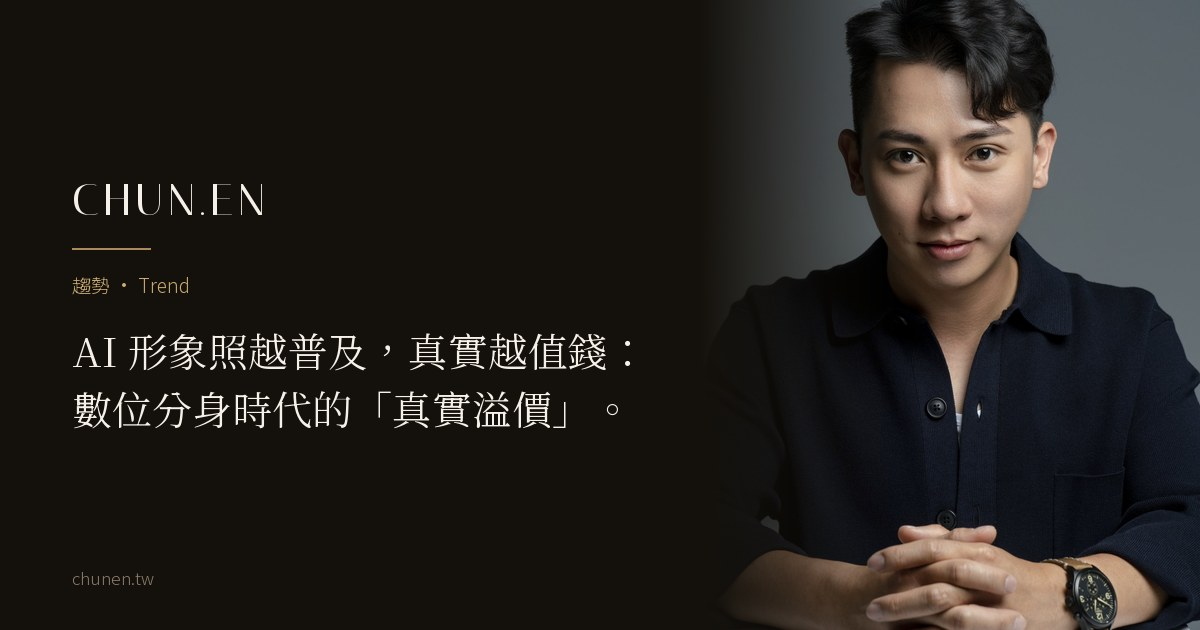
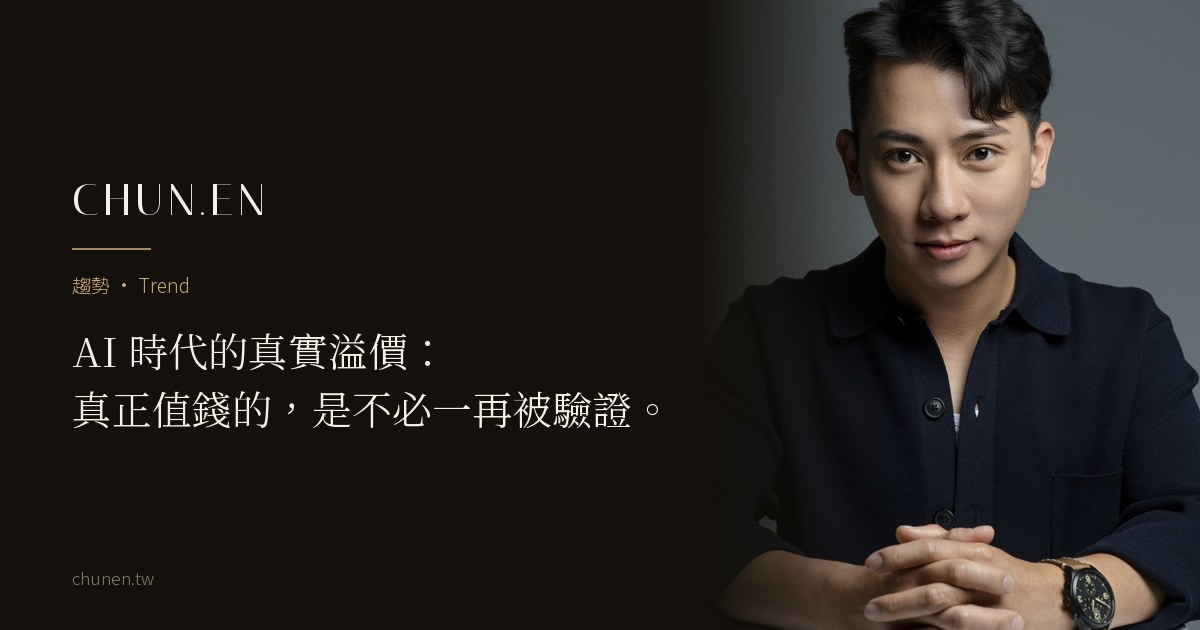
真實溢價改寫：加入「先懷疑、再驗證」，落點改為跨接觸點一致
依 08-02 的參考 MD 重寫。核心校準：不主張大家真的一眼看得出 AI，而是
觀看習慣已經從先接受轉為先懷疑、再相信；因此單張照片的證明力下降，
真正升值的是接觸點之間不需要被反覆驗證的一致。

- H1 改為「AI 時代的真實溢價：真正值錢的，是不必一再被驗證」，
  title／og／twitter／schema headline／麵包屑同步
- 新增 H2「現在的第一反應，常常不是欣賞，而是懷疑」＝這次要加的論點，
  並明講「重點不在觀者判斷得準不準」，避開「AI 一定會露餡」那條會輸的路
- 原「訊號經濟學」段改為「一張照片，已經不能單獨證明一個人」，
  補上「精緻從來就不能證明能力」這層
- 原「真實溢價在哪裡兌現」的三個時刻，改為「溢價不發生在一張照片裡」，
  用驗證成本說明價值往接觸點之間移動
- 「真實不等於隨便」併入「真實不等於只有一個版本」
- 新增「AI 不是問題，斷裂才是」，AI 的位置寫清楚，不再只當對照組
- 收尾改為「下一次有人真的見到你之前」，維持問句收尾零 CTA
- 主圖與內文圖 alt／圖說重寫：原本寫「生成無法替代」「皮膚質地就是溢價
  本身」，與改寫後的論點相衝突
- FAQ 四題全部重寫，前台與 FAQPage schema 逐字一致
- og 分享卡重產（H1 改了，舊卡標題會過期）

鎖定詞：移出「ai 形象照」，改列轉換型不設搜尋入口。原本與已公開的
ai-portrait-honest-take 同鎖一詞，兩頁互搶同一個查詢；改寫後這篇沒有
意圖相符的搜尋詞（「真實溢價」不是台灣人會搜的字），靠內鏈接流量。
理由記在 seo_targets.json 的 _轉換型理由。

分類維持趨勢，8/24 趨勢週三篇不動。

diff --git a/journal/authenticity-premium.html b/journal/authenticity-premium.html
@@ -4,15 +4,15 @@
   <meta charset="UTF-8" />
   <meta name="viewport" content="width=device-width, initial-scale=1.0, viewport-fit=cover" />
   <meta name="robots" content="noindex" /><!-- 草稿：Kay 審核後移除此行＋掛列表頁＋入 sitemap -->
-  <title>AI 形象照越普及，真實越值錢：數位分身時代的「真實溢價」｜CHUN.EN 觀點</title>
-  <meta name="description" content="當任何人都能生成一張完美的照片，「完美」就不再稀缺，稀缺的變成了「經得起見面檢驗的真實」。數位分身時代的訊號經濟學：AI 越普及，真實越值錢，而真實是可以經營的。" />
+  <title>AI 時代的真實溢價：真正值錢的，是不必一再被驗證｜CHUN.EN 觀點</title>
+  <meta name="description" content="當生成讓精緻變便宜，一張照片就不再能單獨證明一個人。觀看習慣也變了：先懷疑，再相信。真正升值的不是「看起來像真的」，是照片、內容、經歷與本人之間不需要被反覆驗證的一致。" />
   <meta name="theme-color" content="#14100B" />
   <link rel="icon" href="/favicon.ico" sizes="48x48" />
   <link rel="icon" href="/favicon-32.png" type="image/png" sizes="32x32" />
   <link rel="apple-touch-icon" href="/apple-touch-icon.png" />
   <link rel="canonical" href="https://chunen.tw/journal/authenticity-premium.html" />
-  <meta property="og:title" content="AI 形象照越普及，真實越值錢：數位分身時代的「真實溢價」" />
-  <meta property="og:description" content="當完美可以量產，經得起見面檢驗的真實，就成了新的奢侈品。" />
+  <meta property="og:title" content="AI 時代的真實溢價：真正值錢的，是不必一再被驗證" />
+  <meta property="og:description" content="精緻變便宜之後，一張照片不再能單獨證明一個人。觀看習慣也變了：先懷疑，再相信。" />
   <meta property="og:image" content="https://chunen.tw/assets/og/authenticity-premium-og.jpg" />
   <meta property="og:image:width" content="1200" />
   <meta property="og:image:height" content="630" />
@@ -20,8 +20,8 @@
   <meta property="og:type" content="article" />
   <meta property="og:locale" content="zh_TW" />
   <meta name="twitter:card" content="summary_large_image" />
-  <meta name="twitter:title" content="AI 形象照越普及，真實越值錢" />
-  <meta name="twitter:description" content="當完美可以量產，經得起見面檢驗的真實，就成了新的奢侈品。" />
+  <meta name="twitter:title" content="AI 時代的真實溢價：真正值錢的，是不必一再被驗證" />
+  <meta name="twitter:description" content="精緻變便宜之後，一張照片不再能單獨證明一個人。" />
   <meta name="twitter:image" content="https://chunen.tw/assets/og/authenticity-premium-og.jpg" />
   <link rel="preconnect" href="https://fonts.googleapis.com" />
   <link rel="preconnect" href="https://fonts.gstatic.com" crossorigin />
@@ -74,65 +74,78 @@
     <header style="padding: clamp(9rem, 16vh, 11rem) 0 clamp(2rem, 4vh, 3rem);">
       <div class="wrap article-wrap">
         <p class="hero-eyebrow rv">趨勢 · Trend</p>
-        <h1 class="rv rv-d1" style="font-weight: 300; font-size: clamp(1.9rem, 4.4vw, 3.2rem); line-height: 1.4; margin-top: 1rem;">AI 形象照越普及，真實越值錢：<br>數位分身時代的<em style="font-style:normal;color:var(--gold-light);">「真實溢價」</em>。</h1>
+        <h1 class="rv rv-d1" style="font-weight: 300; font-size: clamp(1.9rem, 4.4vw, 3.2rem); line-height: 1.4; margin-top: 1rem;">AI 時代的真實溢價：<br>真正值錢的，<em style="font-style:normal;color:var(--gold-light);">是不必一再被驗證</em>。</h1>
         <p class="article-meta rv rv-d2">CHUN.EN 觀點 · 2026 · 閱讀約 5 分鐘</p>
       </div>
     </header>
 
     <div class="wrap article-wrap">
       <div class="jcard-media rv" style="aspect-ratio: 16/9; overflow: hidden; margin-bottom: clamp(2.5rem, 6vh, 4rem);">
-        <img src="../assets/gallery/journal/ai-real-signal-1400.jpg" alt="真實拍攝的光影與質地，生成無法替代的信任訊號" style="width:100%;height:100%;object-fit:cover;object-position:center 20%;" />
+        <img src="../assets/gallery/journal/ai-real-signal-1400.jpg" alt="商業人像中的光線、姿態與人物神情" style="width:100%;height:100%;object-fit:cover;object-position:center 20%;" />
       </div>
 
       <div class="keypoints rv">
         <p class="kp-t">In This Article · 本文重點</p>
         <ul>
-          <li>當「完美」可以量產，完美就不再構成差異</li>
-          <li>新的稀缺品是「經得起見面檢驗的真實」，真實溢價正在形成</li>
-          <li>真實不等於隨便：溢價屬於「被好好呈現的真實」，這正是專業的位置</li>
+          <li>生成讓精緻變便宜，一張照片已經不能單獨證明一個人</li>
+          <li>觀看習慣變了：先懷疑，再相信，重點不在觀者是否真的分得出來</li>
+          <li>真實溢價不在單張照片裡，在接觸點之間那份不需要解釋的一致</li>
         </ul>
       </div>
 
       <div class="article-body rv">
-        <p class="article-lead">價值不只來自稀缺，還要有人需要它。</p>
-        <p>過去，一張光線完美、皮膚無瑕、構圖精準的照片同時具備這兩個條件：它需要專業團隊才做得出來，而看到的人也會因此對你多幾分相信。現在，任何人花幾分鐘就能生成一張。</p>
-        <p>於是一件反直覺的事發生了：<strong>完美貶值了。</strong>而每一次貶值的另一面，都有另一樣東西在升值。這一次升值的，是真實。</p>
+        <p class="article-lead">精緻，現在是一件便宜的事。</p>
+        <p>正式的西裝、棚燈的光、平整的膚質、剛好的場景，過去要一組人才做得出來，現在幾分鐘就有。</p>
+        <p>這不代表專業影像失去價值。真正改變的是：光靠「看起來很專業」，已經不足以說明你是誰、能承擔什麼、值不值得託付。</p>
+        <p>於是要問的問題換了一個：這張照片，和真正走進會議室的那個人，對得起來嗎？</p>
 
-        <h2>訊號經濟學：完美<em>為什麼會貶值</em></h2>
-        <p>照片在商業裡的功能從來不是美學，是訊號，它替觀者回答「這個人是誰、可不可信」。訊號要有效，前提是它「難以偽造」：十年前，一張高質感的形象照間接證明了你願意投資自己、有一定的專業水準，因為它做起來不容易。</p>
-        <p>當生成工具讓完美變得人人可得，這個訊號就失效了，觀者開始知道，螢幕上的無瑕疵不再保證什麼。於是大腦換了一個問題：這是真的嗎？<strong>當所有照片都可能是生成的，「這是真的」本身變成了需要被證明的事，而能被證明的真實，就有了溢價。</strong></p>
-        <blockquote>當完美可以量產，經得起見面檢驗的真實，就成了新的奢侈品。</blockquote>
+        <h2>一張照片，<em>已經不能單獨證明一個人</em></h2>
+        <p>照片在商業裡的功能從來不是美學，是訊號。它替看的人回答一個很快的問題：這個人是誰，可不可信。</p>
+        <p>而訊號要有效，前提是它不容易取得。十年前一張高質感的形象照，間接說明了你願意在自己身上投資，因為那件事做起來不簡單。現在門檻沒了。</p>
+        <p>但要說清楚的是，精緻並沒有失效，它只是不再構成差異。而且它從來就不能證明一個人的專業能力、誠信或交付結果，只是過去沒有人需要計較這件事。</p>
+        <blockquote>精緻曾經是一種成本訊號。它從來都不是能力證明。</blockquote>
 
-        <h2>真實溢價，在<em>哪裡兌現</em></h2>
-        <p>這個溢價不是抽象的哲學，它在幾個非常具體的時刻兌現：</p>
-        <ul>
-          <li><strong>見面的那一刻。</strong>客戶約你開會、投資人與你面談，照片與本人一致，先前累積的信任全額入帳；有落差，則連本帶利扣回。<a href="ai-portrait-honest-take.html">我們對 AI 形象照的誠實建議</a>裡說過：省下的拍攝費，會用第一印象的折損付利息。</li>
-          <li><strong>被反覆檢視的過程。</strong>高信任行業（醫療、法律、金融）的客戶會反覆看你的照片、影片、社群。經得起放大的不是皮膚質地，人眼未必分得出高品質的生成影像；經得起放大的是身分本身：從照片、影片到真正見面，是不是同一個人。</li>
-          <li><strong>長期的一致性。</strong>你可以有很多面向：董事會上沉穩、課堂上有互動感、社群裡更接近生活。需要一致的不是每張照片都一樣，而是每一個版本都能由同一個人承接；生成的形象每次都得重新對齊，時間一拉長，敘事就散了。</li>
-        </ul>
+        <h2>現在的第一反應，<em>常常不是欣賞，而是懷疑</em></h2>
+        <p>以前看到一張完成度很高的照片，多數人的第一句是「拍得真好」。</p>
+        <p>現在，很多人的第一句變成了「這AI吧」。接著眼睛就開始找線索：手指的數量、耳環對不對稱、背景裡有沒有糊掉的字、皮膚是不是平得不像人。</p>
+        <p>他們不一定真的分得出來。高品質的生成影像，肉眼未必是可靠的裁判。</p>
+        <p><strong>但重點從來不在觀者判斷得準不準，而在影像已經不再被直接接受。</strong>它先被懷疑，再被相信。</p>
+        <p>這個轉變會產生一種很少被算進去的成本：一張真的照片，現在也可能要花力氣證明自己是真的。</p>
+        <blockquote>AI 改變的不只是影像怎麼被做出來，而是人們還願不願意直接相信它。</blockquote>
 
-        <h2>關鍵區分：真實<em>不等於隨便</em></h2>
-        <p>這裡最容易誤讀的一步：真實溢價，不是「拿手機隨拍就好」的許可證。隨拍的照片一樣真實，但它同時傳遞了另一個訊號，不在乎。溢價屬於的是<strong>被好好呈現的真實</strong>：真實的你，在正確的定位、合適的造型、專業的光線下，被準確地記錄下來。</p>
-        <p>這正是專業拍攝在 AI 時代的新位置：不是和生成工具比「無瑕」，而是做生成做不到的事，把「真的你」呈現到最好，而且經得起見面對答案。</p>
-        <p>定位（<a href="../a-voir.html">À Voir</a>）確保照片裡是對的角色，妝髮（<a href="../b-room.html">B.room</a>）做的是「更好的真實」而非面具，影像（<a href="../c-photos.html">C.photos</a>）用光影與引導留下真實的質地。<a href="first-impression-research.html">第一印象研究</a>告訴我們，第一眼判讀的是可信度，而可信度的終極來源，是照片背後站得住的那個真人。</p>
+        <h2>真實溢價，<em>不發生在一張照片裡</em></h2>
+        <p>如果單張照片的證明力下降，價值就會往上移一層，移到照片與照片之間。</p>
+        <p>一個人被認識的路徑其實很長：搜尋結果、官網、LinkedIn、社群、一段影片、一次視訊，最後才是真正見面。每一次接觸，都是一次對答案的機會。</p>
+        <p>真正值錢的，是這一串接觸點不需要被解釋。對方不會在中間停下來問：哪一個才是真正的你。</p>
+        <p>換個方式想，這是一筆驗證成本。每多出一次「這是同一個人嗎」的停頓，成本就多一分，而且付這筆成本的是對方。願意替你多付幾次的人，本來就不多。</p>
+
+        <h2>真實，<em>不等於只有一個版本</em></h2>
+        <p>你可以在董事會上沉穩，在課堂上有互動感，在社群裡更接近生活。這些都是你。</p>
+        <p>需要一致的不是每張照片都長一樣，而是每一個版本都由同一個人承接得住，彼此之間也不互相打架。</p>
+        <p>真實也不等於隨手拍。隨拍的照片一樣真實，但它同時說了另一件事：這個位置我沒有很在意。溢價屬於的是被好好呈現的真實。</p>
+
+        <h2>AI 不是問題，<em>斷裂才是</em></h2>
+        <p>AI 有它合理的位置：概念草稿、服裝與背景的測試、創意視覺、不承接商業信任的場景。這些都不需要迴避。</p>
+        <p>真正會出事的是斷裂：把生成的畫面當成現場的紀錄，或者照片替你承諾了一個本人扛不起來的角色。前者是誤導，後者是遲早要還的。</p>
+        <p>這也是我們把三件事放在同一條線上的原因。定位（<a href="../a-voir.html">À Voir</a>）確保照片裡是對的角色；妝髮（<a href="../b-room.html">B.room</a>）做的是更好的真實，不是一張面具；影像（<a href="../c-photos.html">C.photos</a>）留下的是見面時仍然認得出來的那個人。三者合起來要解的，不是「拍得像不像真的」，是每一個接觸點都不必重新解釋一次。</p>
+        <p>如果你還在判斷什麼時候可以用 AI、什麼時候該拍真的，<a href="ai-portrait-honest-take.html">AI 形象照能用嗎</a>那篇談的是實際的使用情境，這一篇談的是它改變了什麼。</p>
 
         <figure class="article-fig crop45">
-          <img src="../assets/gallery/journal/ai-real-signal-1400.jpg" alt="被好好呈現的真實，皮膚質地、光影邏輯與姿態的一致" loading="lazy" />
-          <figcaption>真實的皮膚質地、光影邏輯與姿態，AI 時代裡，這些「與本人一致」的細節就是溢價本身。（CHUN.EN 實際拍攝作品）</figcaption>
+          <img src="../assets/gallery/journal/ai-real-signal-1400.jpg" alt="商業人像中的光線、姿態與人物神情" loading="lazy" />
+          <figcaption>同一個人在不同場合會有不同版本，能被辨識為同一個人，才是這串影像真正的價值。（CHUN.EN 實際拍攝作品）</figcaption>
         </figure>
 
-        <p>所以，AI 不是專業影像的敵人，它是定價的重新洗牌：<strong>它讓「有照片」變得免費，同時讓「是真的、而且被呈現得好」變得更值錢。</strong>站在溢價的那一邊，是可以選擇的。</p>
-
-        <h2>洗牌之後，留一個問題<em>給你</em></h2>
-        <p>下一次有人見到你本人，對照他先看過的那張照片。</p>
-        <p>你會是信任全額入帳的那一方，還是連本帶利被扣回的那一方？</p>
+        <h2>下一次有人真的見到你<em>之前</em></h2>
+        <p>他會先看到搜尋結果，看到照片，可能還看過一段影片，然後才是你本人。</p>
+        <p>那幾個接觸點之間，還是同一個人、同一個角色、同一套承諾嗎？</p>
+        <p>AI 時代真正值錢的，未必是一張毫無瑕疵的畫面。而是你不必在每一次接觸裡，重新證明一次自己。</p>
 
         <h2>常見<em>問題</em></h2>
         <div class="faq">
-          <details><summary>AI 形象照這麼普及，真人拍攝還有價值嗎？<span class="mark">+</span></summary><div class="a">有，而且價值正在被重新理解。當完美可以量產，完美就不再構成差異，真正稀缺的是經得起見面檢驗的真實。但真實不等於隨便，溢價屬於被好好呈現的真實，這正是專業的位置。</div></details>
-          <details><summary>觀者真的分得出來生成與真實嗎？<span class="mark">+</span></summary><div class="a">單看一張未必，但商業信任不是單看一張，它是照片、影片、社群、視訊與見面的總和。落差會在其中任何一個接觸點暴露，而見面是最終的對答案。</div></details>
-          <details><summary>我用真實照片，但修圖修很多，算真實嗎？<span class="mark">+</span></summary><div class="a">判準與 AI 相同：見面時對方認得出是同一個人嗎？修飾光線與暫時性瑕疵是呈現，修改骨相與年齡是偽造，前者累積信任，後者預支信任。</div></details>
-          <details><summary>那 AI 在形象經營裡完全沒有位置嗎？<span class="mark">+</span></summary><div class="a">有，內部草稿、風格測試、虛擬社群等不承接商業信任的場景都適合。原則只有一條：對外承諾信任的位置，留給經得起見面檢驗的真實。</div></details>
+          <details><summary>AI 形象照越普及，真人拍攝真的會變貴嗎？<span class="mark">+</span></summary><div class="a">不一定要理解成價格上漲。更準確的說法是：當精緻可以被生成，單靠完成度形成差異的能力就下降了，而能維持身分一致、角色誠實的影像，重要性會提高。所以是價值被重新理解，不是自動產生溢價。</div></details>
+          <details><summary>觀者真的分得出生成與真人照片嗎？<span class="mark">+</span></summary><div class="a">不一定。高品質的生成臉孔可能很難單靠肉眼辨識，把希望放在「對方會抓到破綻」是一條會輸的路。比較可靠的是跨平台與見面時的身分一致：從搜尋結果、社群、影片到真正坐下來，是不是同一個人。</div></details>
+          <details><summary>我用真人照片，但修圖修很多，還算真實嗎？<span class="mark">+</span></summary><div class="a">沒有哪一個修圖比例可以決定真假。實際的判準有三個：修改之後是否仍保留本人可辨識的穩定特徵、是否符合這張照片的用途、觀者會不會因此被誤導。整理光線與暫時性瑕疵，和改變骨相、年齡是兩件不同的事。</div></details>
+          <details><summary>AI 在商業形象裡還有位置嗎？<span class="mark">+</span></summary><div class="a">有。概念草稿、服裝與背景的測試、創意視覺、部分後製都可以用。關鍵不在商業或非商業的二分，而在使用方式是否說得清楚、是否符合情境，以及有沒有把生成的畫面當成現場紀錄或實際成果。</div></details>
         </div>
 
       </div>
@@ -181,8 +194,8 @@
   {
     "@context": "https://schema.org",
     "@type": "Article",
-    "headline": "AI 形象照越普及，真實越值錢：數位分身時代的「真實溢價」",
-    "description": "當完美可以量產，完美就貶值，新的稀缺品是經得起見面檢驗的真實。真實溢價的訊號經濟學，以及「被好好呈現的真實」為什麼是專業的位置。",
+    "headline": "AI 時代的真實溢價：真正值錢的，是不必一再被驗證",
+    "description": "當生成讓精緻變便宜，一張照片就不再能單獨證明一個人。觀看習慣也變了：先懷疑，再相信。真正升值的不是「看起來像真的」，是照片、內容、經歷與本人之間不需要被反覆驗證的一致。",
     "image": "https://chunen.tw/assets/gallery/journal/ai-real-signal-1400.jpg",
     "author": {"@type": "Person", "@id": "https://chunen.tw/author/zoey-wu.html#zoey", "name": "吳惇恩", "alternateName": "Zoey Wu", "jobTitle": "Founder & Brand Director", "image": "https://chunen.tw/assets/images/zoey-author-640.jpg", "url": "https://chunen.tw/author/zoey-wu.html"},
     "publisher": {"@type": "Organization", "name": "CHUN.EN 形象美學", "logo": {"@type": "ImageObject", "url": "https://chunen.tw/icon-512.png"}},
@@ -199,10 +212,10 @@
     "@context": "https://schema.org",
     "@type": "FAQPage",
     "mainEntity": [
-      {"@type": "Question", "name": "AI 形象照這麼普及，真人拍攝還有價值嗎？", "acceptedAnswer": {"@type": "Answer", "text": "有，而且價值正在被重新理解。當完美可以量產，完美就不再構成差異，真正稀缺的是經得起見面檢驗的真實。但真實不等於隨便，溢價屬於被好好呈現的真實，這正是專業的位置。"}},
-      {"@type": "Question", "name": "觀者真的分得出來生成與真實嗎？", "acceptedAnswer": {"@type": "Answer", "text": "單看一張未必，但商業信任不是單看一張，它是照片、影片、社群、視訊與見面的總和。落差會在其中任何一個接觸點暴露，而見面是最終的對答案。"}},
-      {"@type": "Question", "name": "我用真實照片，但修圖修很多，算真實嗎？", "acceptedAnswer": {"@type": "Answer", "text": "判準與 AI 相同：見面時對方認得出是同一個人嗎？修飾光線與暫時性瑕疵是呈現，修改骨相與年齡是偽造，前者累積信任，後者預支信任。"}},
-      {"@type": "Question", "name": "那 AI 在形象經營裡完全沒有位置嗎？", "acceptedAnswer": {"@type": "Answer", "text": "有，內部草稿、風格測試、虛擬社群等不承接商業信任的場景都適合。原則只有一條：對外承諾信任的位置，留給經得起見面檢驗的真實。"}}
+      {"@type": "Question", "name": "AI 形象照越普及，真人拍攝真的會變貴嗎？", "acceptedAnswer": {"@type": "Answer", "text": "不一定要理解成價格上漲。更準確的說法是：當精緻可以被生成，單靠完成度形成差異的能力就下降了，而能維持身分一致、角色誠實的影像，重要性會提高。所以是價值被重新理解，不是自動產生溢價。"}},
+      {"@type": "Question", "name": "觀者真的分得出生成與真人照片嗎？", "acceptedAnswer": {"@type": "Answer", "text": "不一定。高品質的生成臉孔可能很難單靠肉眼辨識，把希望放在「對方會抓到破綻」是一條會輸的路。比較可靠的是跨平台與見面時的身分一致：從搜尋結果、社群、影片到真正坐下來，是不是同一個人。"}},
+      {"@type": "Question", "name": "我用真人照片，但修圖修很多，還算真實嗎？", "acceptedAnswer": {"@type": "Answer", "text": "沒有哪一個修圖比例可以決定真假。實際的判準有三個：修改之後是否仍保留本人可辨識的穩定特徵、是否符合這張照片的用途、觀者會不會因此被誤導。整理光線與暫時性瑕疵，和改變骨相、年齡是兩件不同的事。"}},
+      {"@type": "Question", "name": "AI 在商業形象裡還有位置嗎？", "acceptedAnswer": {"@type": "Answer", "text": "有。概念草稿、服裝與背景的測試、創意視覺、部分後製都可以用。關鍵不在商業或非商業的二分，而在使用方式是否說得清楚、是否符合情境，以及有沒有把生成的畫面當成現場紀錄或實際成果。"}}
     ]
   }
   </script>
@@ -227,7 +240,7 @@
       {
         "@type": "ListItem",
         "position": 3,
-        "name": "AI 形象照越普及，真實越值錢：數位分身時代的「真實溢價」",
+        "name": "AI 時代的真實溢價：真正值錢的，是不必一再被驗證",
         "item": "https://chunen.tw/journal/authenticity-premium.html"
       }
     ]
